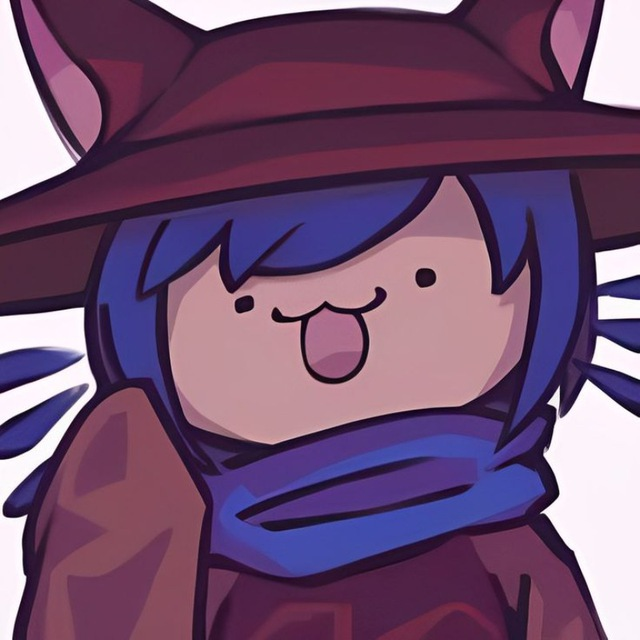
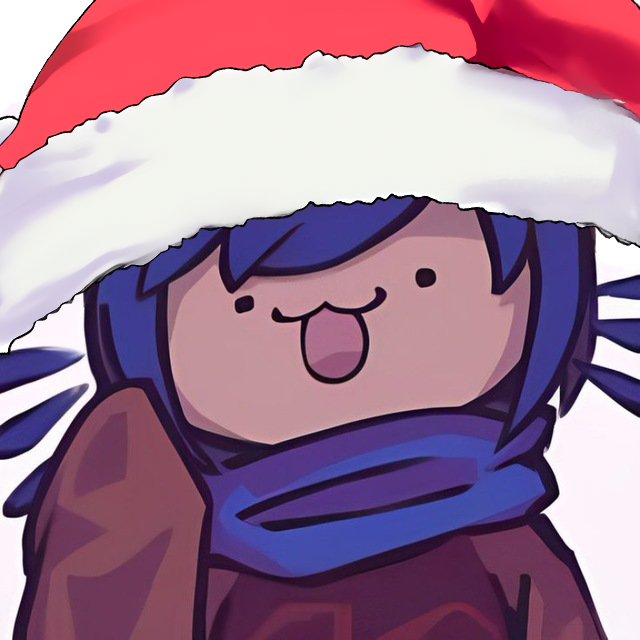
final

diff --git a/themes/winter.js b/themes/winter.js
@@ -1,0 +1,106 @@
+// themes/winter.js
+
+(function() {
+    // 1. СТИЛИ (CSS)
+    const styleId = 'winter-theme-style';
+    const cssContent = `
+        /* css/winter.css INJECTED */
+        :root {
+            --bg-color: #0f1218;
+            --accent-color: #a0d8ef; 
+        }
+
+        /* Контейнер для снега */
+        #snow-container {
+            position: fixed;
+            top: 0; left: 0; width: 100%; height: 100%;
+            pointer-events: none;
+            /* Z-INDEX: 50 (Выше плеера, но ниже UI, у которого 100) */
+            z-index: 50; 
+            overflow: hidden;
+        }
+
+        .snowflake {
+            position: absolute;
+            top: -30px;
+            color: white;
+            user-select: none;
+            pointer-events: none;
+            will-change: transform;
+            animation-name: fall;
+            animation-timing-function: linear;
+            animation-iteration-count: infinite;
+        }
+
+        @keyframes fall {
+            0% { transform: translateY(0) rotate(0deg); opacity: 0; }
+            10% { opacity: 0.8; }
+            100% { transform: translateY(110vh) rotate(360deg); opacity: 0.2; }
+        }
+    `;
+
+    // 2. ГЕНЕРАТОР СНЕГА
+    let snowInterval;
+
+    function startSnowfall() {
+        let container = document.getElementById('snow-container');
+        if (!container) {
+            container = document.createElement('div');
+            container.id = 'snow-container';
+            document.body.appendChild(container);
+        }
+
+        if (snowInterval) clearInterval(snowInterval);
+
+        const symbols = ['❄', '❅', '❆', '•']; 
+
+        snowInterval = setInterval(() => {
+            if (!document.getElementById('snow-container')) return;
+
+            const flake = document.createElement('div');
+            flake.className = 'snowflake';
+            flake.innerText = symbols[Math.floor(Math.random() * symbols.length)];
+            
+            // Рандом: маленькие снежинки
+            const left = Math.random() * 100; 
+            const size = Math.random() * 0.8 + 0.4; // 0.4em - 1.2em
+            const duration = Math.random() * 10 + 5; // 5s - 15s
+            const opacity = Math.random() * 0.6 + 0.2; 
+
+            flake.style.left = left + '%';
+            flake.style.fontSize = size + 'em';
+            flake.style.opacity = opacity;
+            flake.style.animationDuration = duration + 's';
+            
+            container.appendChild(flake);
+
+            setTimeout(() => { flake.remove(); }, duration * 1000);
+        }, 300);
+    }
+
+    function stopSnowfall() {
+        if (snowInterval) clearInterval(snowInterval);
+        const container = document.getElementById('snow-container');
+        if (container) container.remove();
+    }
+
+    // 3. ЭКСПОРТ (Глобальный объект)
+    window.WinterTheme = {
+        enable: () => {
+            // Добавляем CSS
+            if (!document.getElementById(styleId)) {
+                const style = document.createElement('style');
+                style.id = styleId;
+                style.textContent = cssContent;
+                document.head.appendChild(style);
+            }
+            startSnowfall();
+        },
+        disable: () => {
+            // Удаляем CSS
+            const style = document.getElementById(styleId);
+            if (style) style.remove();
+            stopSnowfall();
+        }
+    };
+})();
